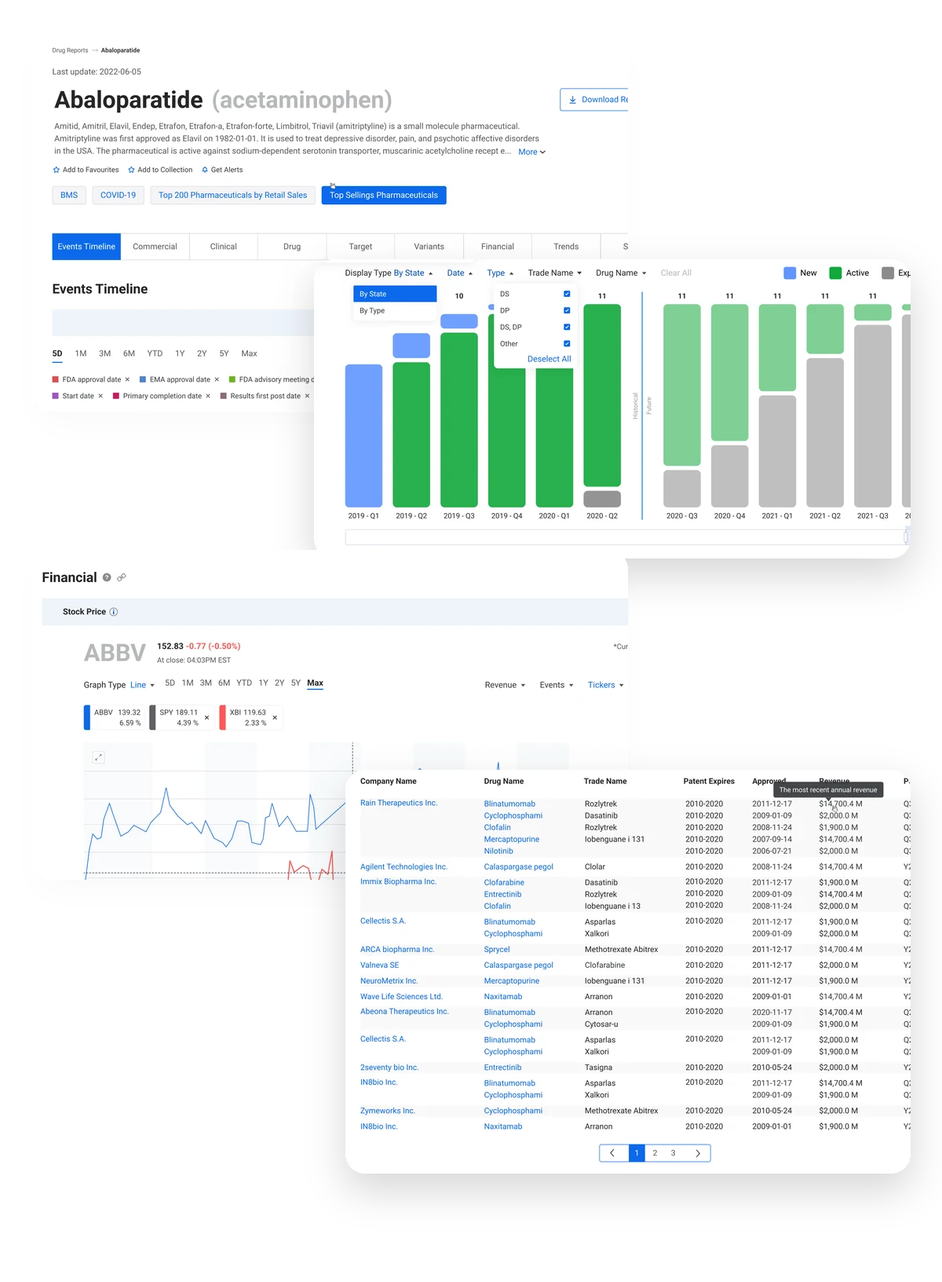
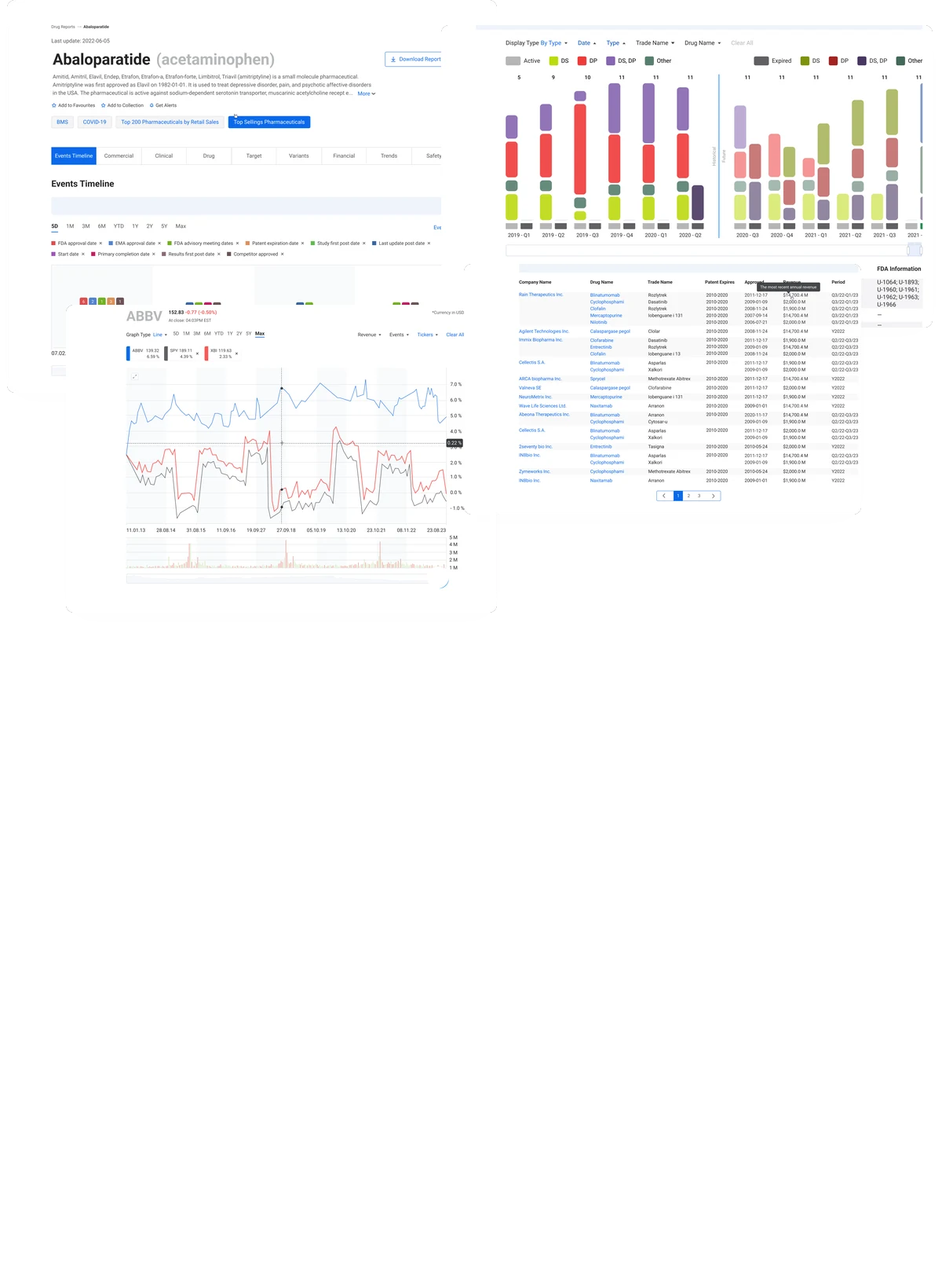
Плитка Quantori — один в один по референсу, верх картинки вровень с другими плитками; правило в харнесе
Claude-Session: https://claude.ai/code/session_01DzwkKU7ghLdatqJxsHswd1

diff --git a/design/cases/quantori/tile.py b/design/cases/quantori/tile.py
@@ -1,5 +1,7 @@
-"""Картинка плитки Quantori на главной: карточки экранов PharmaKB внахлёст (как в референсе пользователя).
-1200 × 1632, прозрачный фон, карточки — белые, скругление 24px, мягкая тень.
+"""Картинка плитки Quantori на главной — один в один по референсу пользователя (2000 × 1353):
+четыре карточки экранов PharmaKB внахлёст — шапка отчёта по препарату, патенты по типам, акции, коммерческая таблица.
+Собирается в координатах референса, затем уменьшается до ширины плитки 1200; верх первой карточки — y 0
+(вровень с картинками других плиток). Холст 1200 × 1632, прозрачный фон.
 Запуск из корня репозитория: python3 design/cases/quantori/tile.py
 """
 import pymupdf
@@ -7,44 +9,55 @@ from PIL import Image, ImageDraw, ImageFilter
 
 SRC = 'design/cases/quantori/screens/'
 OUT = 'public/images/cases/'
+REF_W, TOP = 2000, 25  # ширина референса; верх первой карточки в референсе
 W, H = 1200, 1632
+RADIUS, SS = 16, 2  # скругление в px референса; рендер карточек с запасом ×2
 
-# Файл, область в pt (x0, y0, x1, y1), ширина карточки в плитке, положение (x, y).
+# Файл, карточка в px референса (x0, y0, x1, y1), левый верхний угол карточки в pt, масштаб px/pt.
 CARDS = [
-    ('4-drug-report/Drug Report - Default.pdf', (80, 90, 1240, 830), 760, (40, 40)),
-    ('6-company-report/Patents by State - Filters.pdf', (140, 124, 1290, 700), 760, (400, 330)),
-    ('6-company-report/Company Reports - Comparison - 3.pdf', (100, 470, 1240, 1100), 760, (40, 700)),
-    ('5-disease-report/Disease Report - Default.pdf', (90, 2080, 1240, 2900), 720, (440, 980)),
+    ('4-drug-report/Drug Report - Default.pdf', (15, 25, 1055, 858), (-11, 47), 0.717),
+    ('6-company-report/Patents by State - Filters-1.pdf', (937, 78, 1980, 720), (27, 102), 0.79),
+    ('6-company-report/Company Reports - Comparison - 3.pdf', (140, 672, 1055, 1325), (0, 629), 0.641),
+    ('5-disease-report/Disease Report - Default.pdf', (985, 585, 1828, 1117), (-75, 2039), 0.6),
 ]
 
 
-def card(path, clip, width):
+def card(path, box, origin, s):
+    w, h = box[2] - box[0], box[3] - box[1]
     page = pymupdf.open(SRC + path)[0]
-    z = width * 2 / (clip[2] - clip[0])  # 2x — с запасом, потом уменьшаем
-    pix = page.get_pixmap(matrix=pymupdf.Matrix(z, z), clip=pymupdf.Rect(*clip), alpha=False)
-    im = Image.frombytes('RGB', (pix.width, pix.height), pix.samples)
-    im = im.resize((width, round(im.height * width / im.width)), Image.LANCZOS).convert('RGBA')
+    z = s * SS
+    clip = pymupdf.Rect(origin[0], origin[1], origin[0] + w / s, origin[1] + h / s) & page.rect
+    pix = page.get_pixmap(matrix=pymupdf.Matrix(z, z), clip=clip, alpha=False)
+    shot = Image.frombytes('RGB', (pix.width, pix.height), pix.samples)
+    im = Image.new('RGB', (w * SS, h * SS), 'white')
+    im.paste(shot, (round((clip.x0 - origin[0]) * z), round((clip.y0 - origin[1]) * z)))
+    # Кнопка «Go to top» поверх графика акций — в референсе её нет.
+    if 'Comparison' in path:
+        cx, cy, r = (1232 - origin[0]) * z, (1531 - origin[1]) * z, 36 * z
+        ImageDraw.Draw(im).ellipse((cx - r, cy - r, cx + r, cy + r), fill='white')
+    im = im.convert('RGBA')
     mask = Image.new('L', im.size, 0)
-    ImageDraw.Draw(mask).rounded_rectangle((0, 0, im.width - 1, im.height - 1), 24, fill=255)
+    ImageDraw.Draw(mask).rounded_rectangle((0, 0, im.width - 1, im.height - 1), RADIUS * SS, fill=255)
     im.putalpha(mask)
     return im
 
 
+k = W / REF_W
 tile = Image.new('RGBA', (W, H), (0, 0, 0, 0))
-for path, clip, width, (x, y) in CARDS:
-    im = card(path, clip, width)
-    # Тень: размытая подложка 0 20px 48px, чёрный 16%.
-    pad = 96
-    shadow = Image.new('RGBA', (im.width + pad * 2, im.height + pad * 2), (0, 0, 0, 0))
-    sm = Image.new('L', shadow.size, 0)
-    ImageDraw.Draw(sm).rounded_rectangle((pad, pad, pad + im.width, pad + im.height), 24, fill=41)
-    shadow.putalpha(sm.filter(ImageFilter.GaussianBlur(24)))
-    tile.alpha_composite(shadow, (max(0, x - pad), max(0, y - pad + 20))) if x - pad >= 0 else None
-    if x - pad < 0:
-        layer = Image.new('RGBA', tile.size, (0, 0, 0, 0))
-        layer.paste(shadow, (x - pad, y - pad + 20), shadow)
-        tile = Image.alpha_composite(tile, layer)
+for path, box, origin, s in CARDS:
+    im = card(path, box, origin, s)
+    w, h = round((box[2] - box[0]) * k), round((box[3] - box[1]) * k)
+    x, y = round(box[0] * k), round((box[1] - TOP) * k)
+    im = im.resize((w, h), Image.LANCZOS)
+    # Мягкая тень, как в референсе: 0 12px 40px, чёрный 10%.
+    pad = 60
+    sh = Image.new('L', (w + pad * 2, h + pad * 2), 0)
+    ImageDraw.Draw(sh).rounded_rectangle((pad, pad, pad + w, pad + h), round(RADIUS * k), fill=26)
+    sh = sh.filter(ImageFilter.GaussianBlur(20))
     layer = Image.new('RGBA', tile.size, (0, 0, 0, 0))
+    black = Image.new('RGBA', sh.size, (0, 0, 0, 255))
+    black.putalpha(sh)
+    layer.paste(black, (x - pad, y - pad + 8), black)
     layer.paste(im, (x, y), im)
     tile = Image.alpha_composite(tile, layer)
 

diff --git a/CLAUDE.md b/CLAUDE.md
@@ -178,7 +178,7 @@ pnpm deploy:yandex
 - **Кейс Betting** (`betting.mdx`, собран из Figma-артборда `1792:131065`): плитка Betting на главной ведёт на него (`TILE_CASES` в `Tiles.astro`, ссылка в заголовке растянута на плитку). Figma MCP: картинки — через `get_screenshot` (base64), т.к. `figma.com` сетью закрыт; рендеры 1x. **Схема старой регистрации — кодом** (`src/components/case/betting/OldFlow.astro`): SVG с геометрией из макета (исходник `design/cases/betting/old-flow.svg`, 1320 × 849; линии — контуры из макета), тексты — наш шрифт Onest, по локали (RU/EN), подписи поверх линий «вырезают» линию обводкой цветом фона (из-за обводки текст схемы не выделяется — `user-select: none`); цвета — токены `--case-flow-*`; подписи времени «>2 минут», «>3 минут», «<2 минут» (без «-х/-ой»); уже `--case-flow-min-w` (960px) листается по горизонтали. **Обложка кейса — слайдер экранов** (`slides` во frontmatter вместо `cover`: экраны слева направо, первым показан средний; `src/components/case/CoverSlider.astro` + `src/scripts/cover-slider.ts`, подключает CaseDrawer): на широком обложка шириной с правую колонку `<Columns>` (`(100% − --case-col-gap) / 2`), текст рядом — шириной с левую; слайдер — от маркера списков правой колонки (отступ `--case-indent`) до правого края (края крестика), текущий экран — 56% ширины слайдера (`--case-slide-w`), соседи — 82% размера, внешний край — по краю обложки; соседи приглушены **яркостью** `filter: brightness(--case-slide-side-bright 0.55)`, а не прозрачностью и не слоем с маской (прозрачность — экраны просвечивали друг сквозь друга; слой с `mask` мигал тёмным прямоугольником, пока маска не загружена); слайды — `will-change: transform` (без мигания при создании слоёв; экран, переезжающий с края на край, — позади всех, `data-wrap`); стрелок нет — экраны кликабельны (сосед слева — назад, текущий и правый — вперёд); наведение — только на соседей: поворот ∓1.5° и светлеют (текущий не реагирует); автопрокрутка каждые 4с (стоит под курсором, при фокусе с клавиатуры, на скрытой вкладке и при reduced motion); переход 0.9с (`--case-slide-ease` — быстрый старт, мягкое торможение); **кто впереди — меняется посередине перехода** (`z-index` с задержкой D/2), когда экраны поравнялись по размеру и яркости; смена в первый кадр давала «моргание» — тёмный сосед мгновенно перекрывал светлый центр; токены `--case-slide-*`. Экраны Betting: слева «003.0 Система», центр «001.0-A Верификация…», справа «001.0-A Default» (исходники — SVG в `design/cases/betting/cover/`, рендер в Chromium → WebP 2x/3x: `public/images/cases/betting/cover-*-{750,1125}.webp`, `srcset`; PNG 1x были мыльными; при рендере экран обрезается скруглением 32px — в SVG из Figma без обтравки фрейма углы выходили квадратными; у «Верификации» подложка клавиатуры дотянута до низа — в исходнике снизу была светлая полоска 4px). В плитке Betting на главной — `betting-tile-{600,1200}.webp` (`TILE_IMAGES`): те же три экрана, что в обложке (центр «Верификация», слева «Система», справа «Default»), собраны в композицию 1200 × 1632 как у «Метра квадратного», но мельче (центральный экран 560px = 47% ширины против 62%), боковые — 82% размера, выглядывают на 230px из-за центрального (вариант «боковые по полям плитки» пользователь отменил), без затемнения, прозрачный фон; собрано sharp из `cover-*-1125.webp`. **Селектор сценариев** (`src/components/case/CaseTabs.astro`, под чипсами навыков): вкладки Процессы / Регистрация / Пополнение / Корзина (RU/EN), выбрана «Регистрация» — в слоте весь рассказ о регистрации до конца кейса; у остальных — заглушка «Кейс в разработке» (`case.soon`) с картинкой-экраном, блоки которого мерцают жёлтым; переключение без JS (радиокнопки + `:has`), выбранная — жёлтая заливка, на узком контейнере 2 × 2 (с вертикальным разделителем между колонками и горизонтальным между рядами); заголовок сценария по центру (вес 600); остальные заголовки разделов в сценарии («Подробнее о процессе» и дальше) — так же вес 600, кегль 32px на 1728, сверху 80px (`--case-tabs-section-gap`) вместо `--case-section-gap`; метки «До / После» — по центру, жёлтые `--case-accent`, капсом, `--tracking-label`, вес 400, кеглем текста (варианты «заголовки как в hero» и «До/После кеглем заголовка» пользователь отменил); абзацы внутри сценария — без пустой строки между ними (в шапке кейса пустая строка осталась); отступы: чипсы → селектор — `--case-tabs-section-gap` 80px, селектор → заголовок — `--case-tabs-gap` 48px, заголовок → «До» — `--case-tabs-title-gap` 24px, экраны → «После» — 32px (нижний отступ блока над меткой обнуляется, `:has(+ h3)`), «До/После» → текст в две колонки — `--case-tabs-label-gap` 32px, между блоками сценария (колонки, схемы, картинки, метрики) — `--case-tabs-block-gap` 32px (переопределяет `--case-block-gap` в панели) (на всех экранах); токены `--case-tabs-*`. Чипсы навыков — шрифт как у тегов (`--text-case-body`); список: легаси, стейкхолдеры, продуктовые сессии, аналитика, Наставничество / Mentoring (CJM и «Продуктовое мышление» убраны). **Mind map новой регистрации** — картинка из SVG пользователя (`design/cases/betting/new-flow.svg`, 1320 × 475; надпись «Регистрация и идентификация в один шаг» поднята на 4px; подписи времени заменены на текст Roboto 20px (в SVG были контурами): «<1ой минуты» → «<2 минут», «>2х/>3х минут» → «>2/>3 минут»; синий путь (надпись, линии, точки, стрелка) перекрашен в жёлтый `--case-accent` #FCD537 — в исходнике `#0D69EB` → `#FCD537` — `<g transform="translate(0 -4)">` в исходнике → `public/images/cases/betting/new-flow.webp` 2x, 2640 × 950, рендер в Chromium, прозрачный фон; `Figure wide` — на узком контейнере не мельчит, а листается вбок, не уже `--case-flow-min-w` 960px, как схема старой регистрации). **Макеты новой регистрации** — `Screens` из SVG пользователя (`design/cases/betting/new-screens/{001.0-A,002.0,001.0-0}.svg`, 375 × 812 → `public/images/cases/betting/new-{phone,code,identification}-{616,924}.webp`, скругление 32px; у 001.0-A подложка клавиатуры дотянута до низа, как у обложки). «Звучит просто…» и «Подробнее о процессе» объединены в один сокращённый текст под заголовком «Подробнее о процессе» (рядом схема процесса): командная работа — «мы», личная — «я»; схема процесса рядом — `process.webp` из PNG пользователя (`design/cases/betting/process.png`, 1536 × 1514, 2x, прозрачный фон), `Figure side`: слева — по левому краю правой колонки, справа уходит за край панели на `--case-side-figure-overhang` 4px (обрезка по краю панели), по высоте ряд задаёт текст (отступ заголовок «Подробнее о процессе» → текст — `--case-tabs-heading-text-gap` 24px), картинка — по середине текста (`position: absolute`, `top: 50%`, `translate: 0 -50%`), выступает выше и ниже текста; если выступает ниже текста — `fitSideFigures` в CaseDrawer добавляет блоку колонок `padding-bottom` на выступ, и отступ 80px до следующего заголовка считается от низа картинки, а не от текста; на узком — тоже уходит за правый край панели. **Карта сценариев** («Изучив все нюансы…») — из PNG пользователя `Group 1720.png` (32768 × 16184, 12 МБ; `design/cases/betting/scenarios.png`, sharp с `limitInputPixels: false`) → 12838 × 6342 (2x), **нарезана плитками** 2048px (+2px нахлёста) — `public/images/cases/betting/scenarios/r{ряд}c{колонка}.webp`, 7 × 4 (`design/cases/betting/scenarios-tiles.py`; `Figure box tiles={2048}`, `src` — папка): одна картинка такого размера занимала ~325 МБ в памяти, браузер выгружал её и декодировал заново — на быстрой прокрутке были пустые места и подтормаживания; перед экспортом — `design/cases/betting/scenarios-edit.py` (координаты для 9876 × 4878, масштабируются под размер): убраны два экрана «Превышен лимит входа» внизу слева, **логотипы и название ZENIT размыты** (заставка, промо-экран и его футер, шапки главной, экраны службы поддержки — Telegram, WhatsApp, VK; шапки найдены поиском по шаблону, OpenCV); листаемая рамка высотой `--case-figure-box-h` 600px (было 400) (`Figure box="3200 / 2443" zoom={3.952}` — высота картинки = ширина текста × 2443/3200 × 3.952, 3168px на 1728; трижды увеличено на 30%: 1.8 → 2.34 → 3.04 → 3.952), рамка — в пределах полей панели (за правый край не уходит; вариант «до края панели» пользователь отменил), карту **таскают мышью** (курсор — рука `grab`, при зажатии — `grabbing`, двигается в обе стороны; `pointerdown` в CaseDrawer), колесо и тачпад над картой листают сам кейс (`overflow: hidden` + `overscroll-behavior: auto` при `pointer: fine` и обработчик `wheel` в CaseDrawer, который передаёт прокрутку панели — на Mac прокрутка над картой застревала), на сенсорных экранах — обычная прокрутка пальцем; при открытии кейса рамка сразу прокручена к середине по высоте (`centerBoxes` в CaseDrawer); прежний вариант из PDF — `design/cases/betting/scenarios.pdf`; **PDF — запасной путь, когда SVG больше 25 МБ** (лимит загрузки через сайт GitHub). **Модальные окна** («Проработали много модальных окон») — лента `Figure scroll` из PDF пользователя `Frame 1000003411.pdf` (`design/cases/betting/modals.pdf`, 4326 × 812 pt, 10 светлых экранов, «Страница не найдена» убрана; рендер PyMuPDF с прозрачностью) → `modals.webp` 4286 × 804 (2x; собирается `design/cases/betting/modals-build.py`: экраны находятся по прозрачности, режутся по одному и ставятся с зазором 32px на сайте); высота ленты `--case-strip-h` `clamp(252px, 27vw, 402px)` (402px на 1728: 668 → 334 → 502 → −20%). **Лента модалок — карусель** (`Figure scroll loop`): в край панели слева и справа (за поля, `margin-inline: −gutter`), картинка повторена 3 раза через `--case-strip-loop-gap` 32px; при открытии кейса середина средней копии — по центру (`initLoops` в CaseDrawer), при прокрутке за половину копии прокрутка незаметно сдвигается на копию — листается по кругу в обе стороны; полосы прокрутки нет (при перескоке она бы прыгала), мышью — перетаскиванием (`pointerdown` в CaseDrawer), тачпад и телефон — как обычно. Заголовок «Проработали много модальных окон» — обычный `##` как у остальных разделов, под ним подпись «… На все случаи жизни, так сказать» (обычная `h2 + p`, капсом); лента — под ними (варианты «заголовок/подпись внутри ленты слева» пользователь заменил; в `Figure` остались пропсы `title`/`lead` для текста внутри ленты). **Заголовки разделов сценария и подписи под ними — по центру** (`text-align: center` в CaseTabs; кроме «Подробнее о процессе» — над текстом с картинкой рядом, `h2:not(:has(+ .case-columns))`; у подписи красная строка снята). **Полосы прокрутки во всём кейсе** (панель, ленты экранов, схемы, карта сценариев) — одна тёмная, без светлой дорожки: `scrollbar-color: --case-scrollbar-thumb transparent` на `.case-drawer__scroll` и всём внутри (CaseDrawer); системная на macOS при наведении раскрывалась в серую со светлой подложкой. **Макеты старой регистрации** — `Screens` из SVG пользователя (`design/cases/betting/old-screens/003.3*.svg` → `public/images/cases/betting/old-{registration,confirm,identification}-{616,924}.webp`, рендер в Chromium, скругление 23px). Пропущено из артборда: QR-баннер, форма, футер, чипсы «???», переключатель старое/новое. Опечатки исходника исправлены.
 - **Кейс «Метр квадратный»** (`metr-kvadratny.mdx`, из Figma-артборда `1792:116644`, файл `VOOJI28L9LNiX6hKY23qiE`; собирается по харнесу, шагами): плитка «Метр квадратный» ведёт на него (`TILE_CASES`), описание на превью — `tiles.4.lead` (анкета ипотеки −40%, retention +27% — из итогов кейса). Теги — три цвета по кругу: зелёный, малиновый, синий `--case-tag-3` #0d69eb (из макета). Обложка — слайдер: выдача «Купить квартиру» — «Сервисы» — «Заявка на ипотеку» (из SVG пользователя `Group 10000034121.svg`, до этого `Group 1000003412.svg` с боковыми наоборот, → `design/cases/metr-kvadratny/cover.svg`, 492 × 669, каждый экран вырезан в Chromium 3x, скругление 32px, боковой экран без прозрачности 55% из исходника; `cover-{mortgage,main,search}-{750,1125}.webp`). **Селектора сценариев нет** (пользователь убрал вкладки Поиск / Новостройки / … / Ремонт): `<CaseTabs>` без `items` — только содержимое со стилями сценария, от чипсов до первого заголовка 80px (`case-tabs--bare`). В «Модели коммуникации» — «я приступил к проработке». Сделано: шапка, задачи («Передо мной стояли две задачи», «Создать мобильную экосистему…»), чипсы (без «???»; последний — «Управление командой из 3-х» / Managing a team of 3), «Я начал со сбора данных…» (дальше по тексту — «мы», командная работа), раздел «Сквозной пользовательский путь…» (два `Flow`, тексты подогнаны — колонки равны на 1728/1440; между ними — схема пути `src/components/case/metr/UserPath.astro`: переключатель «1. Поиск объекта / 2. Ипотека» в стиле вкладок воронки, без JS; «Поиск объекта» — SVG кодом по геометрии макета (1320 × 332), линии с точкой в начале и стрелкой, повороты со скруглением 20px, подписи Onest 18px; «Пуш» и «Звонок колл-центра» — `--case-flow-touch` #812751, «Контакт с собственником» — `--case-flow-success`; **«Ипотека» — придумана по той же раскладке** (по просьбе пользователя, на основе логики сервиса из кейса и практики индустрии): Калькулятор ипотеки → Короткая анкета → Выбор банков → Пуш о решении банка (касание); от пуша вниз в «Предварительное одобрение» (линии от «Короткой анкеты» и «Выбора банков» вниз пользователь убрал) (под ним — «Дозаполнение анкеты после одобрения») → «Переход к сделке» (зелёный); из калькулятора — «Сравнение программ» → обходом «Заявка на консультацию» → «Звонок ипотечного менеджера» (касание) → «Подборка программ на почту» → вверх в «Переход к сделке»; связи считаются от плашек (`h` / `down` / `detour` / `up` в `UserPath.astro`); вкладку «3. Сделка» (схему по этапам гарантированной сделки m2.ru и Домклик) пользователь убрал — в переключателе два этапа — общий компонент `src/components/case/Soon.astro`, он же во вкладках `CaseTabs`). Плитка на главной `metr-kvadratny-{600,1200}.webp` пересобрана как у Betting (1200 × 1632: центр «Сервисы» 560px в x 320, боковые «Купить квартиру» (слева) и «Заявка на ипотеку» (справа) 82% — 459 × 994 в x 90 и 651, y 120; из `cover-*-1125.webp`). Шапка агентства из макета (wizdis) не переносится; «m2.ru» на модалке не размываем — это сам заказчик. Figma `get_screenshot` отдаёт не больше 1x — для резких картинок нужен SVG/PDF.
 - **«Метр квадратный» — остальные разделы** (2026-10-01): «Формирование модели коммуникации» — `Columns center` (новый проп: колонки по середине друг друга) — **заголовок раздела внутри левой колонки** вместе с текстом, оба по центру высоты экранов справа (как в макете пользователя; `## ` внутри `<div>` колонки: вес 600, сверху 0, до текста 24px, текст обычный с красной строкой; у блока сверху отступ раздела 80px); экраны профиля — `communication.webp` из SVG пользователя `Frame 2404.svg` → `design/cases/metr-kvadratny/communication.svg` (648 × 668, рендер в Chromium 2x → 1296 × 1336), ниже — цепочки баннеров «Что делать дальше?» / «Какой текущий статус?» **кодом** (`src/components/case/metr/StatusChain.astro`: карточки 300 × 148, шаг 348px, два ряда, линии с точкой и стрелкой переходят между рядами; вопросы рядов — жёлтые `--case-accent`, каждый над первой плашкой своего ряда; листается вбок и таскается мышью — `[data-drag]`; **на всех экранах уходит за правый край панели**, не обрезается по полю — пользователь попросил); «Сформировав общее видение продукта» (подпись «Я приступил к разработке пользовательских сценариев», текст «Я проектирую сценарии…») + `Flow`, который начинается фразой «Только для сервиса «Поиск» было разработано почти сто экранов.» (жёлтую метку `###` пользователь убрал, текст подогнан — колонки равны) + карта экранов `Figure box` — из PDF пользователя `Frame 22.pdf.zip` (`design/cases/metr-kvadratny/search-map.pdf.zip`, 2334 × 1335 pt, PyMuPDF 3x с прозрачностью → 7001 × 4005 (3x — после увеличения на 50% 2x было мало для ретины), плитками 2048 через `design/cases/betting/scenarios-tiles.py` → `search-map/r{ряд}c{колонка}.webp`, 4 × 2; `box="2334 / 1335" zoom={3.324} focus="0.025 0.595"` (zoom было 2.216, +50% по просьбе пользователя) — при открытии главный экран «Сервисы» стоит вплотную к левому краю рамки и по центру по высоте (на всех экранах; `focus` по горизонтали — к левому краю рамки, по вертикали — в центр); `focus` — новый проп `Figure` для `box`: точка картинки (доли) в центр рамки, `centerBoxes` в CaseDrawer); модалки — `Figure scroll loop strip={0.7}` (на 30% ниже ленты по умолчанию; `modals.webp` из SVG пользователя `Frame 2415.svg` → `design/cases/metr-kvadratny/modals.svg`, 2968 × 440, Chromium 2x → 5936 × 880); «Ипотека» — `Flow` + лента `Figure scroll strip={1.2}` (на 20% выше; `mortgage.webp` из SVG пользователя `Group 1000003402.svg` → `design/cases/metr-kvadratny/mortgage.svg`, 3141 × 620, Chromium 2x → 6282 × 1240); итоги — под заголовком выводов график `Metrics` **только из цифр итогов кейса** (без «До / После» — «до» в кейсе нет, выдуманную воронку пользователь отклонил: «липа»): Отсекает фильтр 60%, Короче анкета 40%, Меньше scope MVP 35%, Рост retention 27%, Быстрее time-to-action 22%, Completion rate выше 18% (подписи — максимум 2 строки); фильтр отсекает 60% нерелевантных, анкета короче на 40%, scope MVP меньше на 35%, retention +27%, time-to-action быстрее на 22%, completion rate +18%, затем `Flow` со списком («retention +27%»). Заголовки от первого лица: «Проработал много модальных окон», «И приступил к проработке сервиса «Ипотека»», «Остальные продукты, надеюсь, опишу позже, а пока — выводы» (без подписи под ним; подпись «Но это было лишь начало…» убрана). Все обычные ленты `Figure scroll` теперь тоже таскаются мышью; длинные ленты (`Figure scroll` без `loop`, напр. анкета ипотеки) на всех экранах уходят за правый край панели; у лент нет общего скругления картинки (`--tile-radius` срезал угол первого экрана — у экранов свои углы). Все картинки кейса — из файлов пользователя (временные вырезки из обзорного скриншота убраны). «to be continued» под анкетой не переносили.
-- **Кейс Quantori** (`quantori.mdx`, 2026-10-02, на согласовании): PharmaKB — база знаний о разработке лекарств (Collaborative Drug Discovery), данные FDA и EMA. Исходники — 166 PDF пользователя (залиты в `main`, разложены там же в `quantori/`; копия в `design/cases/quantori/{screens,annotations,elements}`; 9 файлов из списка — «Report Sets», «Revenue by Drug», четыре «Screenshot…» (вероятно, старый интерфейс «до») — ещё не загружены). **Графики и таблицы — только реальные фрагменты экранов** (пользователь: «покажи работу, которую мы проделали, а не придумывай графики сам»; самодельные графики FDA/EMA, сроки рассмотрения и таблица областей удалены): `design/cases/quantori/crops.py` — области в pt из PDF → `public/images/cases/quantori/<имя>.webp` 2440px (2x), скругление 24px: акции с индексами, выручка компании, выручка по препаратам, патенты, исследования по фазам, продажи по рынкам, медицинское использование, PubMed, побочные эффекты, карта конкурентов с success rate, цепочка вероятности успеха, коммерческая таблица; `build.py` — обложка, отчёт по препарату целиком плитками (`Figure box focus="0 0"`), лента экранов (`Figure scroll loop`). Кодом остались: `Dashboard` (мок раздела отчёта «Было / Стало» — пока нет скриншотов старого интерфейса) и `Results` (было → стало, досчёт; `src/scripts/case-data.ts`, `watchCaseData` в CaseDrawer). **Цифры «до/после» (18 → 41 мин, 3,7 → 1,2 мин, 64 → 23%, SUS 52 → 81) и 12 аналитиков придуманы по просьбе пользователя**; реальные — BIO (7,9%, 10,5 года), 16 000 px отчёта, девять разделов. Плитка: ведёт на кейс, описание `tiles.3.lead`, картинка `quantori-tile-{600,1200}.webp` — четыре карточки экранов внахлёст по референсу пользователя (шапка отчёта по препарату, патенты, акции, коммерческая таблица; `design/cases/quantori/tile.py`, 1200 × 1632, прозрачный фон, тень).
+- **Кейс Quantori** (`quantori.mdx`, 2026-10-02, на согласовании): PharmaKB — база знаний о разработке лекарств (Collaborative Drug Discovery), данные FDA и EMA. Исходники — 166 PDF пользователя (залиты в `main`, разложены там же в `quantori/`; копия в `design/cases/quantori/{screens,annotations,elements}`; 9 файлов из списка — «Report Sets», «Revenue by Drug», четыре «Screenshot…» (вероятно, старый интерфейс «до») — ещё не загружены). **Графики и таблицы — только реальные фрагменты экранов** (пользователь: «покажи работу, которую мы проделали, а не придумывай графики сам»; самодельные графики FDA/EMA, сроки рассмотрения и таблица областей удалены): `design/cases/quantori/crops.py` — области в pt из PDF → `public/images/cases/quantori/<имя>.webp` 2440px (2x), скругление 24px: акции с индексами, выручка компании, выручка по препаратам, патенты, исследования по фазам, продажи по рынкам, медицинское использование, PubMed, побочные эффекты, карта конкурентов с success rate, цепочка вероятности успеха, коммерческая таблица; `build.py` — обложка, отчёт по препарату целиком плитками (`Figure box focus="0 0"`), лента экранов (`Figure scroll loop`). Кодом остались: `Dashboard` (мок раздела отчёта «Было / Стало» — пока нет скриншотов старого интерфейса) и `Results` (было → стало, досчёт; `src/scripts/case-data.ts`, `watchCaseData` в CaseDrawer). **Цифры «до/после» (18 → 41 мин, 3,7 → 1,2 мин, 64 → 23%, SUS 52 → 81) и 12 аналитиков придуманы по просьбе пользователя**; реальные — BIO (7,9%, 10,5 года), 16 000 px отчёта, девять разделов. Плитка: ведёт на кейс, описание `tiles.3.lead`, картинка `quantori-tile-{600,1200}.webp` — один в один по референсу пользователя (2000 × 1353): шапка отчёта по препарату слева сверху, патенты по типам справа, акции слева снизу, коммерческая таблица справа снизу; собирается в координатах референса и уменьшается до 1200, верх первой карточки — y 0 (вровень с картинками других плиток — правило в харнесе); `design/cases/quantori/tile.py`, 1200 × 1632, прозрачный фон, мягкая тень.
 - **Телефон (контейнер кейса <600px): всё, что листается вбок, уходит за правый край экрана** — схемы (`OldFlow`, `UserPath`), широкие картинки (`Figure wide`), ленты (`Figure scroll` без `loop`, `Screens`), карты (`Figure box`), цепочки (`StatusChain`): `margin-right: −gutter` + `padding-right: gutter` (в конце прокрутки — отступ как поле); слева — по полю. Правило в `CaseArticle.astro`.
 - **Телефон / iOS Safari** (2026-10-02, по жалобе: чёрные вспышки фона, прокрутка скачет, чипсы hero просвечивают сквозь первую плитку): высоты экрана — не `dvh` (в Safari меняется при прокрутке, когда прячется адресная строка): фон hero `.hero__bg` — `100lvh` (холст WebGL больше не меняет размер — вспышки шли от его пересоздания каждый кадр), первый слайд, `--tiles-start`, запас под плитками, «Обо мне» — `svh`; `ScrollTrigger.config({ ignoreMobileResize: true })` в `motion.ts`; после смены размера холст сразу дорисовывается (`draw()` в ResizeObserver); **доводка скролла (snap) на сенсорных экранах выключена** (`(hover: none), (pointer: coarse)` в Hero.astro — тянула прокрутку обратно во время инерции); на <768px у текста hero нет задержки `TEXT_HOLD` (с задержкой первая плитка наезжала на текст). Проверено в эмуляции iPhone 13 в Chromium, не в настоящем Safari.
 - **Быстродействие модалки кейса**: картинки кейса грузятся сразу (без `loading="lazy"` — на быстрой прокрутке не успевали), карта сценариев плитками, WebGL-градиент hero не рисуется, пока открыт кейс (`html.case-open` в `hero-gradient.ts`), воронка анимируется трансформацией.

diff --git a/.claude/skills/case-layout/SKILL.md b/.claude/skills/case-layout/SKILL.md
@@ -159,6 +159,7 @@ CaseTabs (вкладки сценариев; выбранный — слот, о
 - **Подписи столбиков `Metrics` — максимум 2 строки** на 1728 / 1440 / 1024 / 390, RU и EN; длиннее — переписываем короче (не мягкими переносами). Проверка — скрипт подсчёта строк подписей в браузере. `\n` — для принудительного переноса.
 - Описание кейса на главной — 3 строки на 1728 (длина как у остальных карточек, «без ёлки»).
 - Картинка плитки на главной — как у Betting: 1200 × 1632, прозрачный фон, центральный экран 560px (x 320, y 0), боковые 82% (459 × 994, x 90 и 651, y 120), из экранов обложки `cover-*-1125.webp`.
+- **Картинки всех плиток — на одном уровне по высоте**: верх композиции (верхний край самого высокого экрана или карточки) — y 0 холста 1200 × 1632. Десктопные продукты (Quantori) — карточки экранов внахлёст по референсу пользователя (`design/cases/quantori/tile.py`), верх первой карточки — тоже y 0.
 
 ## 9. Чек-лист перед деплоем
 
